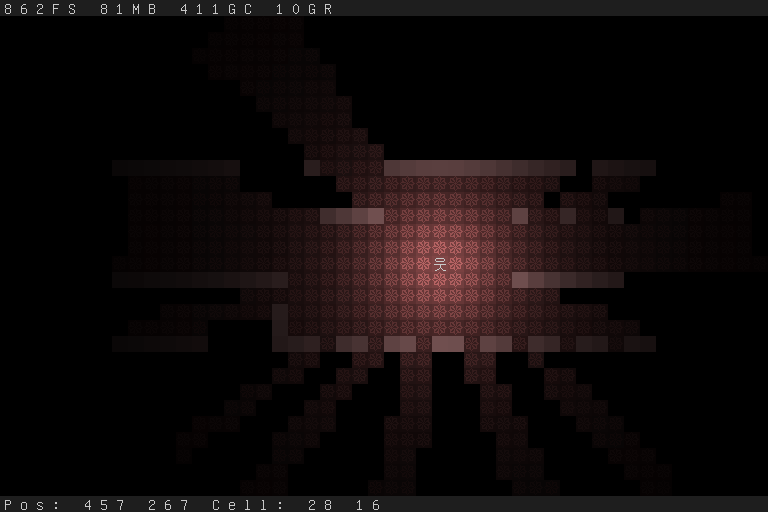
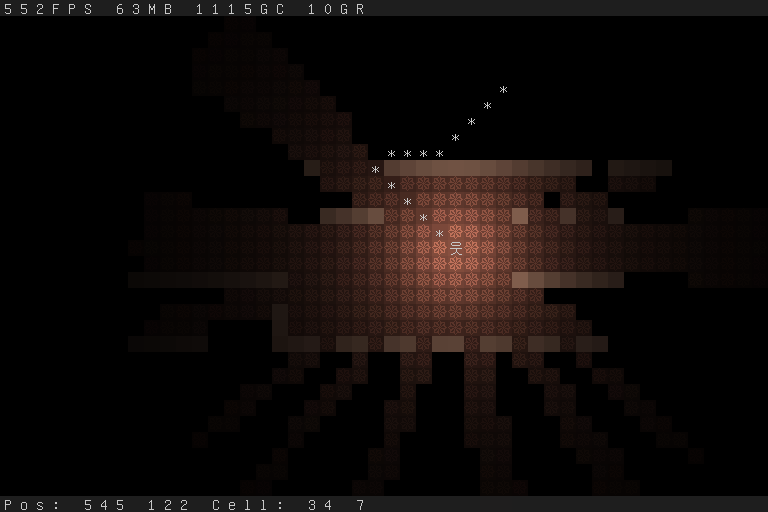
Update README and screenshot

diff --git a/examples/main.go b/examples/main.go
@@ -11,8 +11,8 @@ var (
 	width  = 48
 	height = 32
 
-	wall   = rog.Hex(0xffb4b4)
-	floorc = rog.Hex(0x804646)
+	wall   = rog.Hex(0xffbb99)
+	floorc = rog.Hex(0x885040)
 	black  = rog.Hex(0x000000)
 	white  = rog.Hex(0xffffff)
 	lgrey  = rog.Hex(0xc8c8c8)

diff --git a/README.md b/README.md
@@ -3,8 +3,9 @@ rog
 ![Rog Screenshot](http://github.com/ajhager/rog/raw/master/data/screenshot.png)
 
 * 24bit color, unicode console with built in font.
-* Cross platform windowing via github.com/skelterjohn/go.wde.
+* Cross platform with pluggable backends.
 * Field of view, lighting, and pathfinding algorithms.
+* Procedural color functions.
 
 ```go
 package main
@@ -33,8 +34,9 @@ Notes
 Thanks
 ------
 * libTCOD [http://doryen.eptalys.net/libtcod/]
-* John Asmuth [http://github.com/skelterjohn/go.wde]
 * Yamamushi [http://www.theasciiproject.com/]
+* John Asmuth [http://github.com/skelterjohn/go.wde]
+* jteeuwen [https://github.com/jteeuwen/glfw]
 
 Plans
 -----
@@ -44,6 +46,6 @@ Plans
 * Noise generators
 * Random color Blenders
 * Palette support
-* Lighting
+* Merge in lighting
 * More fov algorithms
 * Website, documentation, tutorial, and more examples.
